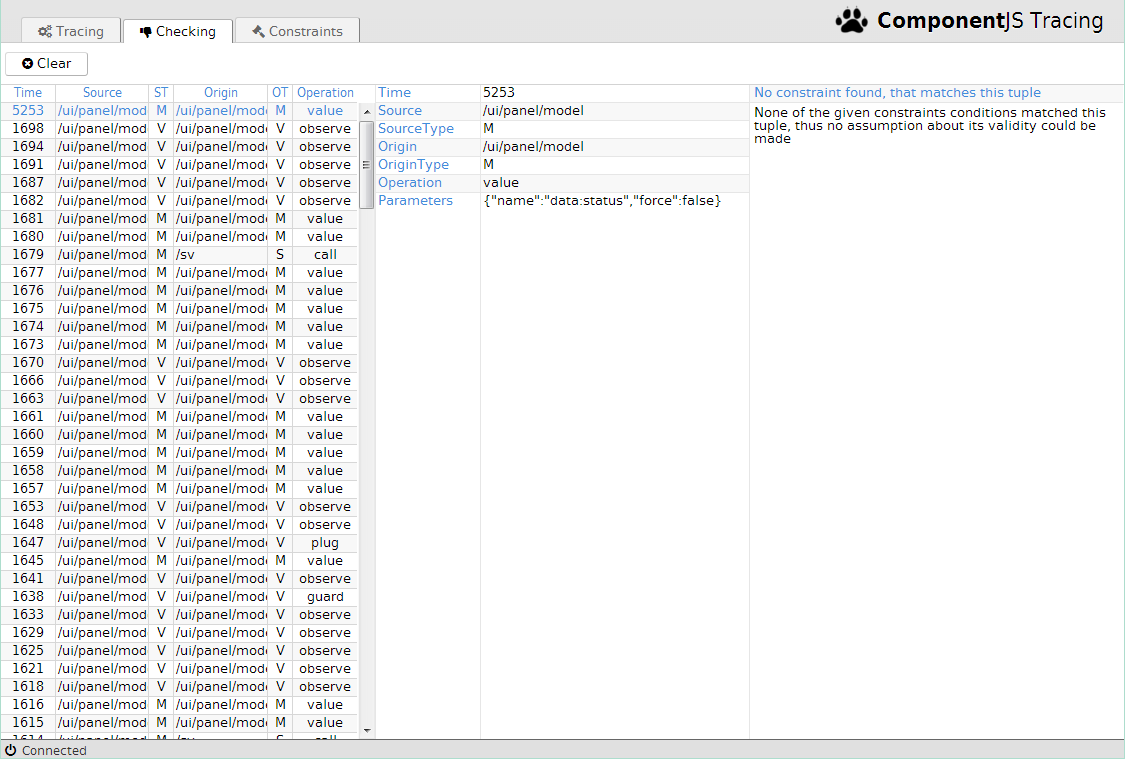
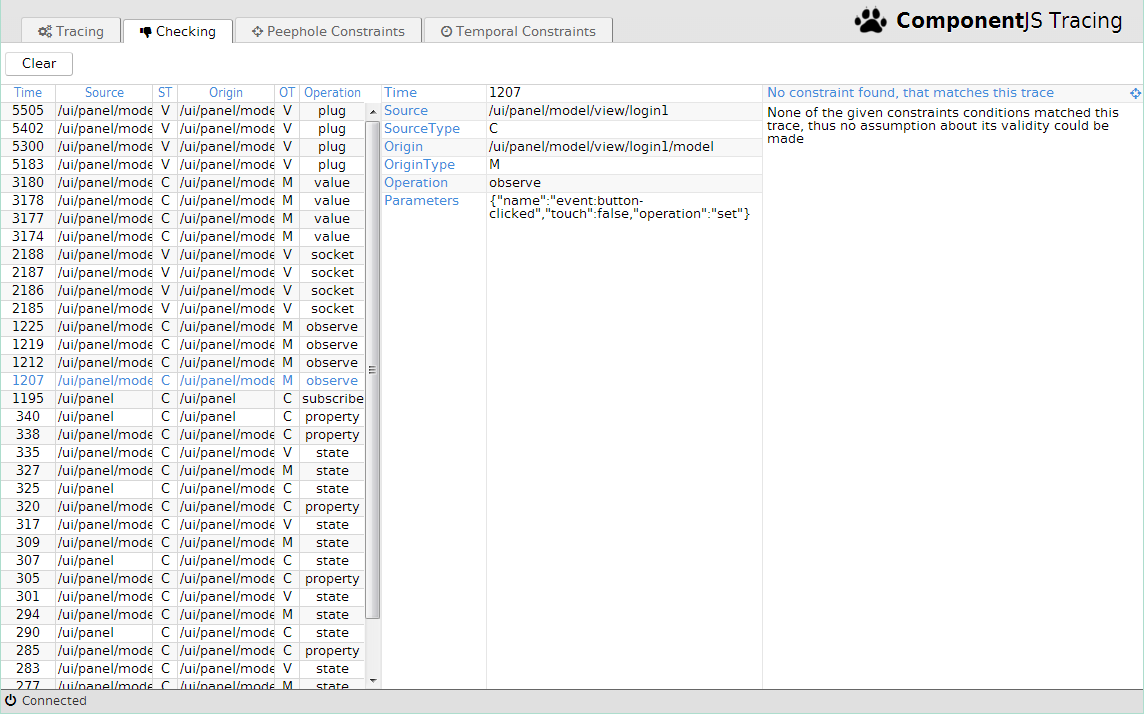
Updated screenshots

Changed region(s): [[0.0, 0.0308, 1.0, 1.0], [0.6533, 0.0924, 1.0, 0.2157], [0.7156, 0.0, 0.9956, 0.0616]]

diff --git a/app/ui/app/app-sv.js b/app/ui/app/app-sv.js
@@ -42,6 +42,7 @@ app.sv = cs.clazz({
             cs(this).register('validateTemporalConstraints', function (constraintSet) {
                 var result = []
                 var noDups = _.uniq(constraintSet, function (constraint) { return constraint.id })
+                //  TODO - check for duplicates within the whole constraint set
                 if (noDups.length !== constraintSet.length) {
                     var diff = _.difference(constraintSet, noDups)
                     _.each(diff, function (constraint) {
@@ -60,7 +61,7 @@ app.sv = cs.clazz({
                             constraint: constraint,
                             column: 0,
                             type: 'error',
-                            message: 'The sequence of a temporal constraint must no exceed two'
+                            message: 'The number of participating traces of a temporal constraint must no exceed two'
                         })
                     var noDups = _.uniq(participants)
                     if (noDups.length !== 2)
@@ -89,6 +90,13 @@ app.sv = cs.clazz({
                                 message: filter.id + ' is not defined in the sequence section but used in a filter expression'
                             })
                     })
+                    if (constraint.constraintBody.links.length > 1)
+                        result.push({
+                            constraint: constraint,
+                            column: 0,
+                            type: 'error',
+                            message: 'There can only be a link expression for the second participating trace'
+                        })
                     _.map(constraint.constraintBody.links, function (link) {
                         if (_.indexOf(participants, link.id) === -1)
                             result.push({

diff --git a/README.md b/README.md
@@ -27,7 +27,8 @@ The ComponentJS Tracing application consists of three major components:
 
 <img src="https://raw.github.com/rse/componentjs-tracing/master/doc/screenshot-tracing.png" width="100%"/><br/>
 <img src="https://raw.github.com/rse/componentjs-tracing/master/doc/screenshot-checking.png" width="100%"/><br/>
-<img src="https://raw.github.com/rse/componentjs-tracing/master/doc/screenshot-constraints.png" width="100%"/><br/>
+<img src="https://raw.github.com/rse/componentjs-tracing/master/doc/screenshot-peephole-constraints.png" width="100%"/><br/>
+<img src="https://raw.github.com/rse/componentjs-tracing/master/doc/screenshot-temporal-constraints.png" width="100%"/><br/>
 
 ## Architecture
 
